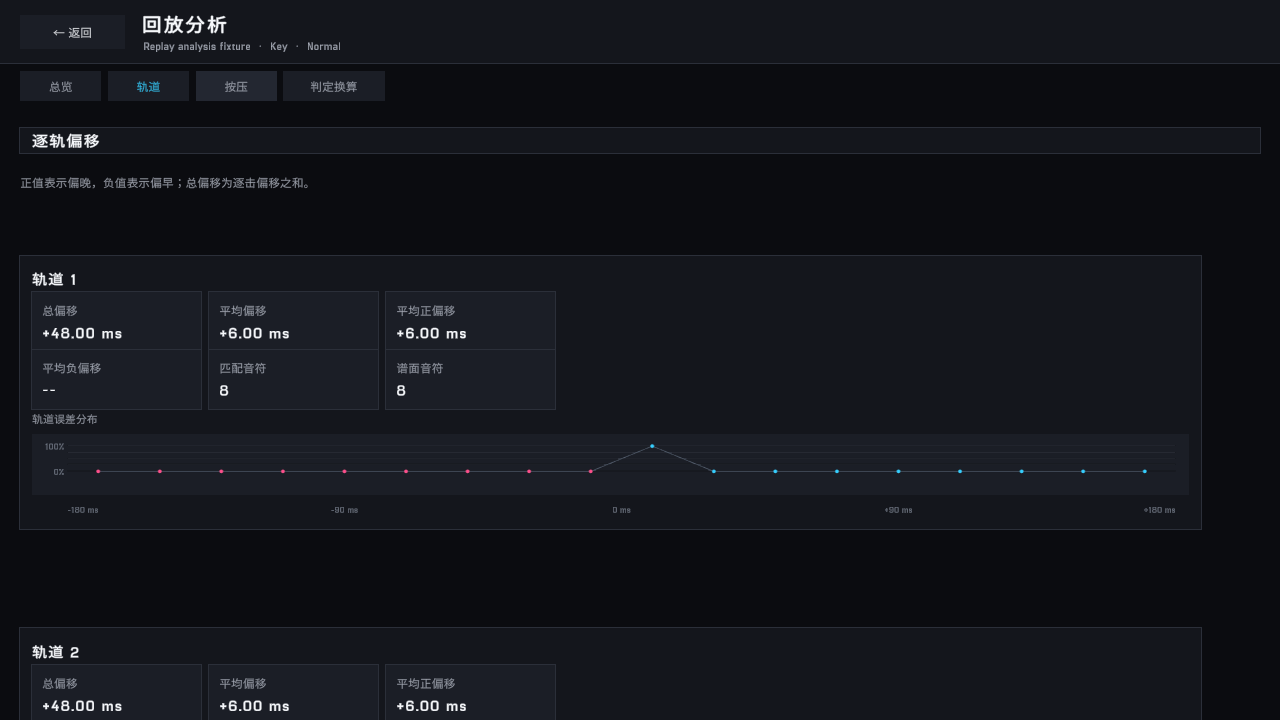
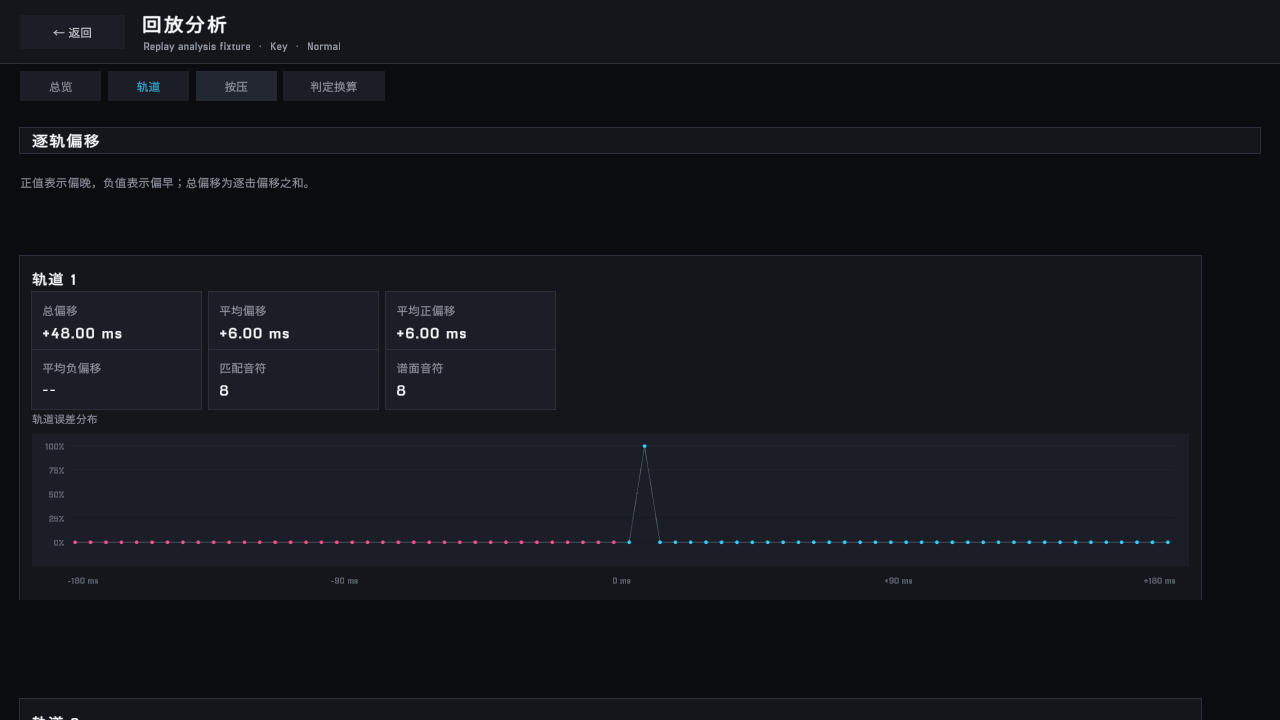
Add replay Baka accuracy labels

diff --git a/src/BetterMalodyV.Plugin/ReplayRunController.cs b/src/BetterMalodyV.Plugin/ReplayRunController.cs
@@ -1,8 +1,10 @@
+using System.Globalization;
 using System.Reflection;
 using HarmonyLib;
 using Malody.DB;
 using Malody.Play;
 using Malody.Scene;
+using Malody.Scene.Item;
 using Malody.Scene.Panel;
 using TMPro;
 using UnityEngine;
@@ -21,7 +23,15 @@ public sealed class ReplayRunController : MonoBehaviour
     private Run? run;
     private float nextScan;
     private float nextAccountCheck;
+    private float nextBaka;
     private string? failure;
+    private const string BakaLabelName="BetterMalodyV.BakaAccuracy";
+    private static readonly Color BakaColor=new(.32f,.68f,1f,1f);
+    private readonly Queue<BakaJob> bakaQueue=new();
+    private readonly HashSet<string> queuedBaka=new(StringComparer.OrdinalIgnoreCase);
+    private readonly Dictionary<string,(double Accuracy,bool TurboTail)?> bakaCache=new(StringComparer.OrdinalIgnoreCase);
+    private readonly Dictionary<int,string> itemBakaPaths=new();
+    private sealed record BakaJob(ItemScore Item,int InstanceId,string Path);
     private sealed class Run(object info,ReplayFile replay,ReplayFile inputs,uint user)
     {
         internal readonly object Info=info;
@@ -46,6 +56,7 @@ public sealed class ReplayRunController : MonoBehaviour
         try
         {
             Patch(typeof(PanelScoreDetail).GetMethod("Show",new[]{typeof(ScoreRecord)})!,nameof(LocalShown),true);
+            Patch(typeof(ItemScore).GetMethod("Fill")!,nameof(ScoreFilled),true);
             Patch(typeof(ChartPlayer).GetMethod("Load")!,nameof(Loading));
             Patch(Api.InputTick,nameof(TickBefore));Patch(Api.InputReset,nameof(ResetAfter),true);Patch(Api.ResetRandom,nameof(RandomAfter),true);
             foreach(var method in Api.PhysicalInputs)Patch(method,nameof(PhysicalBefore));
@@ -70,12 +81,75 @@ public sealed class ReplayRunController : MonoBehaviour
             if(scene=="ScenePlay")run.SeenPlay=true;
             else if(run.SeenPlay || Time.unscaledTime-run.Started>45)run=null;
         }
+        ProcessBakaQueue();
         if(Time.unscaledTime<nextScan)return;nextScan=Time.unscaledTime+.5f;
         foreach(var panel in UnityEngine.Object.FindObjectsOfType<PanelScoreDetail>())
             try {Attach(panel);}catch(Exception ex){Plugin.Current.LogRoom("Replay action unavailable: "+ex.GetBaseException().Message);}
     }
     private static void LocalShown(PanelScoreDetail __instance)
     {try {Current?.Attach(__instance);}catch(Exception ex){Plugin.Current.LogRoom("Replay action: "+ex.GetBaseException().Message);}}
+
+    private static void ScoreFilled(ItemScore __instance,object __1)
+    {
+        try {Current?.QueueBaka(__instance,__1);}
+        catch(Exception ex) {Plugin.Current.LogRoom("Replay Baka label unavailable: "+ex.GetBaseException().Message);}
+    }
+
+    [Il2CppInterop.Runtime.Attributes.HideFromIl2Cpp]
+    private void QueueBaka(ItemScore item,object data)
+    {
+        var label=EnsureBakaLabel(item);
+        if(!item || label is null)return;
+        var instanceId=item.GetInstanceID();
+        if(data is not ScoreRecord record || string.IsNullOrWhiteSpace(record.ReplayFile))
+        {
+            itemBakaPaths.Remove(instanceId);label.gameObject.SetActive(false);return;
+        }
+        var path=Api.ReplayArchivePath(record.ReplayFile);
+        itemBakaPaths[instanceId]=path;label.gameObject.SetActive(true);label.color=BakaColor;
+        if(bakaCache.TryGetValue(path,out var cached)){ApplyBaka(label,cached);return;}
+        label.text="…";
+        if(queuedBaka.Add(path))bakaQueue.Enqueue(new(item,instanceId,path));
+    }
+
+    [Il2CppInterop.Runtime.Attributes.HideFromIl2Cpp]
+    private void ProcessBakaQueue()
+    {
+        if(Time.unscaledTime<nextBaka || bakaQueue.Count==0)return;
+        nextBaka=Time.unscaledTime+.06f;
+        var job=bakaQueue.Dequeue();queuedBaka.Remove(job.Path);
+        (double Accuracy,bool TurboTail)? result=null;
+        try {result=AnalysisApi.AnalyzeBaka(job.Path);}
+        catch(Exception ex){Plugin.Current.LogRoom("Replay Baka analysis skipped: "+ex.GetBaseException().Message);}
+        bakaCache[job.Path]=result;
+        if(!itemBakaPaths.TryGetValue(job.InstanceId,out var current)
+            || !string.Equals(current,job.Path,StringComparison.OrdinalIgnoreCase))return;
+        var label=EnsureBakaLabel(job.Item);if(label is not null)ApplyBaka(label,result);
+    }
+
+    private static void ApplyBaka(Text label,(double Accuracy,bool TurboTail)? result)
+    {
+        label.gameObject.SetActive(result is not null);if(result is null)return;
+        label.text=(result.Value.Accuracy*100).ToString("0.00",CultureInfo.InvariantCulture)+"%";
+        label.color=BakaColor;
+    }
+
+    private static Text? EnsureBakaLabel(ItemScore item)
+    {
+        if(!item || !item.acc)return null;
+        var existing=item.acc.transform.parent.Find(BakaLabelName)?.GetComponent<Text>();
+        if(existing is not null)return existing;
+        var source=item.acc;var go=new GameObject(BakaLabelName);go.layer=source.gameObject.layer;
+        var label=go.AddComponent<Text>();label.font=source.font;label.fontSize=source.fontSize;label.fontStyle=source.fontStyle;
+        label.alignment=TextAnchor.MiddleRight;label.horizontalOverflow=HorizontalWrapMode.Overflow;
+        label.verticalOverflow=VerticalWrapMode.Truncate;label.raycastTarget=false;label.supportRichText=source.supportRichText;
+        label.resizeTextForBestFit=source.resizeTextForBestFit;label.resizeTextMinSize=source.resizeTextMinSize;
+        label.resizeTextMaxSize=source.resizeTextMaxSize;label.color=BakaColor;
+        var rect=go.GetComponent<RectTransform>();rect.SetParent(source.transform.parent,false);
+        var sourceRect=source.rectTransform;rect.anchorMin=sourceRect.anchorMin;rect.anchorMax=sourceRect.anchorMax;
+        rect.pivot=new Vector2(1,sourceRect.pivot.y);rect.sizeDelta=new Vector2(Math.Max(88,sourceRect.sizeDelta.x*.58f),sourceRect.sizeDelta.y);
+        rect.anchoredPosition=sourceRect.anchoredPosition+new Vector2(-8,0);label.gameObject.SetActive(false);return label;
+    }
     [Il2CppInterop.Runtime.Attributes.HideFromIl2Cpp]
     internal Button? Attach(PanelScoreDetail panel)
     {

diff --git a/tests/ReplayRuntimeTests.cs b/tests/ReplayRuntimeTests.cs
@@ -74,11 +74,20 @@ internal static class ReplayRuntimeTests
             var file=Path.Combine(BepInEx.Paths.GameRootPath,"own-replay-fixture.mrv");
             File.WriteAllBytes(file,Google.Protobuf.MessageExtensions.ToByteArray(replay.Cast<Google.Protobuf.IMessage>()).ToArray());
             check(api.Read(file).UserId==888,"Actual native replay parser reads the selected local file");
+            check(Path.GetFileName(api.ReplayArchivePath("own-replay-fixture.mrv"))=="own-replay-fixture.mrv","Native replay archive path resolves through the game config");
             var chartFile=Path.Combine(BepInEx.Paths.GameRootPath,"analysis-chart-fixture.mc");
             File.WriteAllText(chartFile,"{\"meta\":{\"mode\":0,\"version\":\"Lv.5\",\"song\":{\"title\":\"Analysis fixture\",\"artist\":\"Local\"},\"mode_ext\":{\"column\":4}},\"time\":[{\"beat\":[0,0,1],\"bpm\":120}],\"note\":[{\"beat\":[4,0,1],\"column\":0},{\"beat\":[5,0,1],\"endbeat\":[6,0,1],\"column\":1}]}");
             meta.Path=chartFile;meta.Version="Lv.5";meta.Index=0;
             var analyzed=owner.AnalysisApi.Analyze(file);
             check(analyzed.Analysis.ChartNoteCount==2 && analyzed.Analysis.Tracks.Count==4,$"Analysis parses a temporary chart copy and reads track note data: notes={analyzed.Analysis.ChartNoteCount}, tracks={analyzed.Analysis.Tracks.Count}");
+            var baka=owner.AnalysisApi.AnalyzeBaka(file);
+            check(baka is not null && !baka.Value.TurboTail,"Local replay list uses lowercase baka without Turbo tail judgement");
+            var turbo=ReplayFile.Parser.ParseFrom(Google.Protobuf.MessageExtensions.ToByteArray(replay.Cast<Google.Protobuf.IMessage>()).ToArray());
+            turbo.Score.Custom="E";turbo.Judge=new ReplayFile.Types.Judge{JudgeAtEnd=true};
+            var turboFile=Path.Combine(BepInEx.Paths.GameRootPath,"turbo-baka-fixture.mrv");
+            File.WriteAllBytes(turboFile,Google.Protobuf.MessageExtensions.ToByteArray(turbo.Cast<Google.Protobuf.IMessage>()).ToArray());
+            var turboBaka=owner.AnalysisApi.AnalyzeBaka(turboFile);
+            check(turboBaka is not null && turboBaka.Value.TurboTail,"Local replay list switches to lowercase baka-e for Turbo tail judgement");
             check(api.ChartHash(chart)==replay.ChartHash,"Analysis leaves the game's cached chart metadata intact");
             var flipped=ReplayFile.Parser.ParseFrom(Google.Protobuf.MessageExtensions.ToByteArray(replay.Cast<Google.Protobuf.IMessage>()).ToArray());
             flipped.Score.Mod=(uint)ModMask.Flip;

diff --git a/tests/ReplayAnalysisTests.cs b/tests/ReplayAnalysisTests.cs
@@ -52,19 +52,24 @@ internal static class ReplayAnalysisTests
         Check(small.Judgements.Best == 1 && small.Judgements.Late == 1, "Separates timing flags from judgement counts");
         Check(small.Presses.DurationDistribution.Bins.Sum(bin => bin.Count) == 2, "Bins completed press durations");
         Check(small.Presses.DurationDistribution.Bins.Single(bin => bin.Start == 20).Count == 1
-            && small.Presses.DurationDistribution.Bins.Single(bin => bin.Start == 40).Count == 1,
-            "Duration histogram retains unequal numeric bin boundaries");
-        Check(small.Presses.IntervalDistribution.Bins.Single(bin => bin.Start == 500).Count == 1,
-            "Press interval is assigned to its real 500-1000 ms range");
+            && small.Presses.DurationDistribution.Bins.Single(bin => bin.Start == 50).Count == 1
+            && small.Presses.DurationDistribution.Bins.Count >= 50,
+            "Duration histogram retains fine 10 ms sampling");
+        Check(small.Presses.IntervalDistribution.Bins.Single(bin => bin.Start == 980).Count == 1,
+            "Press interval is assigned to its fine numeric range");
         var hold = ReplayAnalysisEngine.Analyze(
             new[] { new ReplayChartNote(1000, 0, 2000) },
             new[] { new ReplayInputAction(1000, 0, true), new ReplayInputAction(2110, 0, false) },
             Array.Empty<ReplayHitEvent>(),
             1);
         var baka = hold.Profiles.Single(profile => profile.Label == "Baka");
+        var bakaSmall = hold.Profiles.Single(profile => profile.Label == "baka");
         var bakaTail = hold.Profiles.Single(profile => profile.Label == "Baka-e");
+        var bakaTailSmall = hold.Profiles.Single(profile => profile.Label == "baka-e");
         Check(baka.Objects == 1 && Math.Abs(baka.Accuracy - 1) < .001, "Baka excludes hold-tail score objects");
+        Check(bakaSmall.Objects == 1 && Math.Abs(bakaSmall.Accuracy - 1) < .001, "Lowercase baka profile excludes hold-tail score objects");
         Check(bakaTail.Objects == 2 && Math.Abs(bakaTail.Accuracy - .5) < .001, "Baka-e scores a separate hold tail");
+        Check(bakaTailSmall.Objects == 2 && Math.Abs(bakaTailSmall.Accuracy - .5) < .001, "Lowercase baka-e scores a separate hold tail");
 
         var sparse = ReplayAnalysisEngine.Analyze(
             new[] { new ReplayChartNote(0, 0), new ReplayChartNote(10, 0), new ReplayChartNote(10000, 0) },

diff --git a/src/BetterMalodyV.Plugin/ReplayGameApi.cs b/src/BetterMalodyV.Plugin/ReplayGameApi.cs
@@ -61,6 +61,28 @@ internal sealed class ReplayGameApi
         get {var self=Call(RoomGameApi.Singleton(onlineInfo),"get_Self")!;return Convert.ToUInt32(self.GetType().GetProperties(Any).Single(p=>p.PropertyType==typeof(uint)).GetValue(self));}
     }
     internal string? LocalPath(PanelScoreDetail panel)=>(string?)localPath.GetValue(panel);
+    internal string ReplayArchivePath(string replayFile)
+    {
+        var getPath=AppDomain.CurrentDomain.GetAssemblies()
+            .SelectMany(assembly=>
+            {
+                try { return assembly.GetTypes(); }
+                catch { return Array.Empty<Type>(); }
+            })
+            .SelectMany(type=>type.GetMethods(Any))
+            .FirstOrDefault(method=>method.Name=="GetMaPath" && method.ReturnType==typeof(string)
+                && method.GetParameters().Length==1)
+            ?? throw new NotSupportedException("当前游戏缺少回放目录配置接口。");
+        var configType=getPath.DeclaringType!;
+        var pathType=getPath.GetParameters()[0].ParameterType;
+        var getGlobal=configType.GetMethods(Any).FirstOrDefault(method=>method.Name=="get_G" && method.IsStatic)
+            ?? configType.BaseType?.GetMethods(Any).FirstOrDefault(method=>method.Name=="get_G" && method.IsStatic);
+        var config=getGlobal?.Invoke(null,null)
+            ?? throw new NotSupportedException("当前游戏配置尚未初始化。");
+        var root=(string?)getPath.Invoke(config,new[]{Enum.Parse(pathType,"ReplayArchive")})
+            ?? throw new NotSupportedException("当前游戏回放目录为空。");
+        return Path.GetFullPath(Path.Combine(root,replayFile));
+    }
     internal static object? Call(object value,string method,params object?[] args)=>value.GetType().GetMethod(method,Any)!.Invoke(value,args);
     private static object? CallStatic(Type type,string method,params object?[] args)=>type.GetMethod(method,Any)!.Invoke(null,args);
     internal static bool Same(object? a,object? b)=>a is Il2CppObjectBase x && b is Il2CppObjectBase y && x.Pointer==y.Pointer;

diff --git a/src/BetterMalodyV.Plugin/ReplayAnalysisView.cs b/src/BetterMalodyV.Plugin/ReplayAnalysisView.cs
@@ -229,7 +229,7 @@ internal static class ReplayAnalysisView
         AddSection(page, Text("逐轨偏移", "Offset by track"));
         AddText(page, Text("正值表示偏晚，负值表示偏早；总偏移为逐击偏移之和。", "Positive values are late, negative values are early; total offset is the sum of hit errors."), 14, FontStyles.Normal, MutedColor, 42, true);
         var columns = Screen.width < 1500 ? 1 : 2;
-        var grid = Grid(page, columns, columns == 1 ? 1400 : 680, 426, 16);
+        var grid = Grid(page, columns, columns == 1 ? 1400 : 680, 510, 16);
         foreach (var track in session.Analysis.Tracks)
         {
             var card = Panel(grid.transform, "Track " + (track.Lane + 1), SurfaceColor);
@@ -266,7 +266,7 @@ internal static class ReplayAnalysisView
 
         AddSection(page, Text("逐轨按压", "Presses by track"));
         var columns = Screen.width < 1500 ? 1 : 2;
-        var grid = Grid(page.transform, columns, columns == 1 ? 1400 : 680, 470, 16);
+        var grid = Grid(page.transform, columns, columns == 1 ? 1400 : 680, 560, 16);
         foreach (var track in analysis.Tracks)
         {
             var card = Panel(grid.transform, "Press track " + (track.Lane + 1), SurfaceColor);
@@ -393,13 +393,13 @@ internal static class ReplayAnalysisView
     {
         var block = Block(parent, title, 14, 14, 14, 14, 7);
         AddText(block.transform, title, 16, FontStyles.Bold, InkColor, 25);
-        AddHistogram(block.transform, histogram, signed, 148, plotId);
+        AddHistogram(block.transform, histogram, signed, 240, plotId);
     }
 
     private static void AddCompactHistogram(Transform parent, string title, ReplayHistogram histogram, bool signed, string plotId)
     {
         AddText(parent, title, 13, FontStyles.Normal, MutedColor, 20);
-        AddHistogram(parent, histogram, signed, 72, plotId);
+        AddHistogram(parent, histogram, signed, 156, plotId);
     }
 
     private static void AddHistogram(Transform parent, ReplayHistogram histogram, bool signed, float height, string plotId)

diff --git a/tests/RuntimeVerification.cs b/tests/RuntimeVerification.cs
@@ -153,12 +153,12 @@ public sealed class RuntimeVerification : MonoBehaviour
                         var histograms=page.GetComponentsInChildren<RectTransform>(true).Where(rect=>rect.name=="Histogram" && rect.gameObject.activeInHierarchy).ToArray();
                         Check(histograms.Length>=2,"Duration and interval histograms are rendered");
                         var durationPlot=ReplayAnalysisView.TestPlots.Single(plot=>plot.Id=="PressDuration");
-                        Check(durationPlot.Points.Count==10 && durationPlot.Points.Any(point=>Math.Abs(point.X-70)<.001)
-                            && durationPlot.MaximumX==700 && durationPlot.ConnectPoints,
-                            "Duration distribution uses a connected point plot at the 60-80 ms bin center");
+                        Check(durationPlot.Points.Count==51 && durationPlot.Points.Any(point=>Math.Abs(point.X-75)<.001)
+                            && durationPlot.MaximumX==510 && durationPlot.ConnectPoints,
+                            "Duration distribution uses fine 10 ms point sampling");
                         var intervalPlot=ReplayAnalysisView.TestPlots.Single(plot=>plot.Id=="PressInterval");
-                        Check(intervalPlot.Points.Any(point=>Math.Abs(point.X-1250)<.001) && intervalPlot.MaximumX==1500,
-                            "Interval overflow is drawn at its documented representative midpoint");
+                        Check(intervalPlot.Points.Any(point=>Math.Abs(point.X-1005)<.001) && intervalPlot.MaximumX==1010,
+                            "Interval overflow is drawn at its fine representative midpoint");
                         Check(histograms.All(graph=>graph.GetComponentInChildren<RawImage>(true).texture),
                             "Distribution plots render as native raster textures");
                     }

diff --git a/src/BetterMalodyV.Shared/ReplayAnalysisEngine.cs b/src/BetterMalodyV.Shared/ReplayAnalysisEngine.cs
@@ -19,9 +19,13 @@ public static class ReplayAnalysisEngine
     private sealed record MatchedNote(int NoteIndex, double Error);
     private sealed record ScoredObject(double TimeMs, double Accuracy);
 
-    private static readonly double[] OffsetBounds = Enumerable.Range(0, 19).Select(i => -180d + i * 20).ToArray();
-    private static readonly double[] DurationBounds = { 0, 20, 40, 60, 80, 100, 150, 200, 300, 500, double.PositiveInfinity };
-    private static readonly double[] IntervalBounds = { 0, 50, 75, 100, 125, 150, 200, 300, 500, 1000, double.PositiveInfinity };
+    // Fine bins keep the raster plot faithful to the recorded distribution instead of
+    // collapsing most hits into a handful of wide columns.
+    private static readonly double[] OffsetBounds = Enumerable.Range(0, 73).Select(i => -180d + i * 5).ToArray();
+    private static readonly double[] DurationBounds = Enumerable.Range(0, 51).Select(i => i * 10d)
+        .Append(double.PositiveInfinity).ToArray();
+    private static readonly double[] IntervalBounds = Enumerable.Range(0, 101).Select(i => i * 10d)
+        .Append(double.PositiveInfinity).ToArray();
 
     public static ReplayAnalysisResult Analyze(
         IReadOnlyList<ReplayChartNote> chartNotes,

diff --git a/src/BetterMalodyV.Plugin/ReplayAnalysisGameApi.cs b/src/BetterMalodyV.Plugin/ReplayAnalysisGameApi.cs
@@ -103,6 +103,19 @@ internal sealed class ReplayAnalysisGameApi(ReplayGameApi replayApi)
             analysis);
     }
 
+    internal (double Accuracy, bool TurboTail)? AnalyzeBaka(string replayPath)
+    {
+        var replay = replayApi.Read(replayPath);
+        var session = Analyze(replayPath);
+        var turboTail = replay.Judge?.JudgeAtEnd == true || HasTurboTail(replay.Score?.Custom);
+        var label = turboTail ? "baka-e" : "baka";
+        var profile = session.Analysis.Profiles.FirstOrDefault(item => item.Label == label);
+        return profile is null ? null : (profile.Accuracy, turboTail);
+    }
+
+    private static bool HasTurboTail(string? custom) => !string.IsNullOrWhiteSpace(custom)
+        && custom.Split('/').Any(value => value.Equals("E", StringComparison.OrdinalIgnoreCase));
+
     private static object ParseUncachedChart(object cachedChart)
     {
         var parserType = ResolveParserType();

diff --git a/src/BetterMalodyV.Plugin/Plugin.cs b/src/BetterMalodyV.Plugin/Plugin.cs
@@ -8,7 +8,7 @@ using Malody.Scene.Panel;
 
 namespace BetterMalodyV.Plugin;
 
-[BepInPlugin("com.mcpsde.bettermalodyv", "BetterMalodyV", "1.3.2")]
+[BepInPlugin("com.mcpsde.bettermalodyv", "BetterMalodyV", "1.3.3")]
 public sealed class Plugin : BasePlugin
 {
     internal static Plugin Current = null!;

diff --git a/DESIGN.md b/DESIGN.md
@@ -258,7 +258,7 @@ The local chart's `PanelScoreDetail` replay area adds “重演并上传”, wit
 
 The action starts normal play from an input-only copy of the owner's local replay, preserving original settings and seed; native judgement, result and submission decide the outcome. Invalid account, file, chart or unsupported settings receive the native message feedback. The two `replay-action-{1280x720,1920x1080}.png` captures use the shipped prefab with synthetic 123456 / 98.5% detail data; they establish action placement and text fit, not a completed play or server acceptance. Final isolated native runs passed 150 checks at each resolution; managed, release build, package, installer and restart checks pass. Evidence limits live in `.impeccable/review/documentation.md`.
 
-The same local replay area adds “回放分析”, aligned into the native action row with “Replay analysis” when CJK glyphs are unavailable. Its full-screen overlay follows MalodySite `/cvtscore` tokens (#0b0c10 canvas, #14161c surfaces, #1b1e26 raised surface, #35cfff accent, compact bordered sections), with “返回” at upper left and four native tabs for overview, tracks, presses and judgement conversion. It displays signed total/mean/early/late timing, per-lane statistics, pressure duration and interval distributions, recorded judgement counts, and CVT profile point plots. The CVT defaults are ported from the site utility; the output is explicitly an estimate and supports Key, Step and DJ only. The chart is reparsed through the game's CreateForExistChart API against a CloneWithMeta copy, leaving the cached chart untouched. CVT matches MalodySite `drawPoints`: one 2.2 px dot per scored object, red zero-score dots, five percentage gridlines, and no connecting bars or lines. Other distributions use fine frequency lines and circular points. Four 1280×720 and 1920×1080 captures use a synthetic fixture to verify layout, labels and navigation, not live local replay accuracy.
+The same local replay area adds “回放分析”, aligned into the native action row with “Replay analysis” when CJK glyphs are unavailable. Its full-screen overlay follows MalodySite `/cvtscore` tokens (#0b0c10 canvas, #14161c surfaces, #1b1e26 raised surface, #35cfff accent, compact bordered sections), with “返回” at upper left and four native tabs for overview, tracks, presses and judgement conversion. It displays signed total/mean/early/late timing, per-lane statistics, pressure duration and interval distributions, recorded judgement counts, and CVT profile point plots. The CVT defaults are ported from the site utility; the output is explicitly an estimate and supports Key, Step and DJ only. The chart is reparsed through the game's CreateForExistChart API against a CloneWithMeta copy, leaving the cached chart untouched. CVT matches MalodySite `drawPoints`: one 2.2 px dot per scored object, red zero-score dots, five percentage gridlines, and no connecting bars or lines. Other distributions use fine frequency lines and circular points with 5–10 ms sampling and generous chart heights. The local replay list adds a blue lowercase `baka` or `baka-e` accuracy beside each valid replay's native ACC, selecting `baka-e` only when Turbo hold-tail judgement is enabled. Four 1280×720 and 1920×1080 captures use a synthetic fixture to verify layout, labels and navigation, not live local replay accuracy.
 
 ### Artwork
 

diff --git a/docs/DEVELOPMENT.md b/docs/DEVELOPMENT.md
@@ -21,20 +21,22 @@
 
 1.3.2 按 MalodySite Canvas 点图重画 CVT：每个评分对象一个圆点、零分红点和五条百分比网格；其他分布改为细线与圆点。托管分析 21 项通过；两种原生分辨率各通过 163 项。
 
+1.3.3 将偏移、按压时长和间隔图细分为 5–10 ms 采样并提高图高；本地回放列表在 ACC 左侧显示小写 `baka` 或 Turbo 尾判对应的 `baka-e` 准确率。托管分析 23 项通过；两种原生分辨率各通过 166 项。
+
 replay-action 两张真实预制体捕获中的 123456 / 98.5% 为合成详情数据。完整会话的暂停/继续仅经源码审查，reset/seek 断言不代表该流程通过；未完成整谱重演、真实排行榜写入或服务端接受测试，也没有真实双账号联机或物理多屏 DPI 验证。
 
 ## 手动发布补丁版
 
 仅修改自己的管理面板说明时，编辑游戏目录下 `BetterMalodyV/docs/FEATURES.md` 并按 F5 即可，无需打包。向其他用户发布则编辑仓库 `docs/FEATURES.md`；升级仍会保留他们手动修改过的安装副本。
 
-以下以从 1.3.2 发布下一个补丁版 1.3.3 为例，在仓库根目录执行；先将 `Directory.Build.props` 的 Version、`src/BetterMalodyV.Plugin/Plugin.cs` 的 BepInPlugin 版本都改为 `1.3.3`，并把 README.md 的安装器文件名改为 `BetterMalodyV-Setup-1.3.3.exe`。
+以下以从 1.3.3 发布下一个补丁版 1.3.4 为例，在仓库根目录执行；先将 `Directory.Build.props` 的 Version、`src/BetterMalodyV.Plugin/Plugin.cs` 的 BepInPlugin 版本都改为 `1.3.4`，并把 README.md 的安装器文件名改为 `BetterMalodyV-Setup-1.3.4.exe`。
 
 ```powershell
 pwsh -NoProfile -File scripts/build-release.ps1
 pwsh -NoProfile -File scripts/test-package.ps1
 git diff -- docs/FEATURES.md Directory.Build.props src/BetterMalodyV.Plugin/Plugin.cs README.md
 git add -- docs/FEATURES.md Directory.Build.props src/BetterMalodyV.Plugin/Plugin.cs README.md
-git commit -m "Release 1.3.3"
+git commit -m "Release 1.3.4"
 git push origin main
 pwsh -NoProfile -File scripts/publish-github-release.ps1 -SkipBuild
 ```

diff --git a/README.md b/README.md
@@ -5,10 +5,10 @@ Windows x64 / BepInEx 6 IL2CPP 版 Malody V 优化插件。
 - 状态筛选：大厅和联机搜索按 Stable、Beta、Alpha（含 Promotion）筛选歌曲及谱面。
 - 房主更新：选中的官方谱面有新版时，在房间内一键下载更新。
 - 分享同步：房员接收分享后自动替换本地不一致的版本。
-- 回放重演与分析：可重演本人回放重新上传，或打开全屏分析页查看偏移、轨道、按压与 CVT 估分。
+- 回放重演与分析：可重演本人回放重新上传，或打开全屏分析页查看偏移、轨道、按压与 CVT 估分，并在本地回放列表显示小写 baka 或 baka-e 准确率。
 - 自动更新：游戏启动及每 30 分钟检查新版，游戏内弹窗显示下载进度，校验后等待本局结束、安装并自动重启。
 
-[下载安装器](https://github.com/MCPsDE/BetterMalodyV/releases/latest)，退出游戏后运行 `BetterMalodyV-Setup-1.3.2.exe` 安装；后续升级无需打开管理面板。
+[下载安装器](https://github.com/MCPsDE/BetterMalodyV/releases/latest)，退出游戏后运行 `BetterMalodyV-Setup-1.3.3.exe` 安装；后续升级无需打开管理面板。
 
 [功能文档](docs/FEATURES.md) 可直接编辑，管理面板会读取游戏目录下的 `BetterMalodyV/docs/FEATURES.md`；升级保留手动修改过的说明。
 
